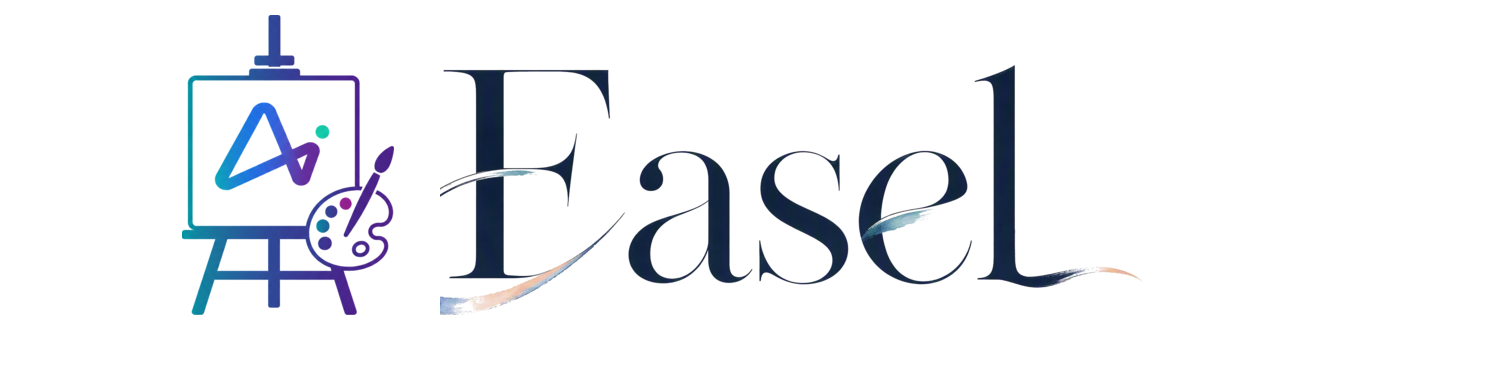
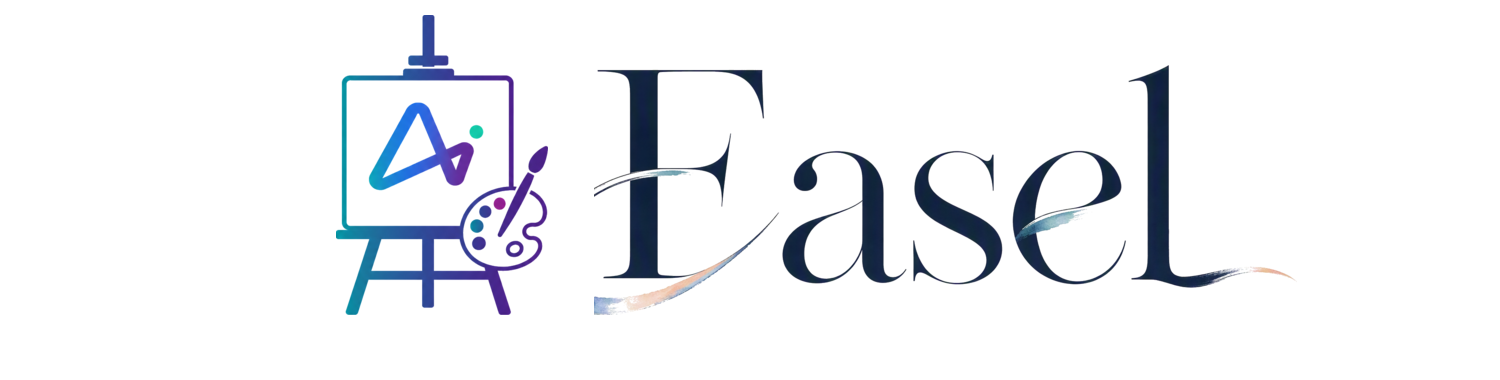
docs: refine README brand alignment and video copy

Changed region(s): [[0.1227, 0.0289, 0.8587, 0.8395]]

diff --git a/README.md b/README.md
@@ -1,5 +1,5 @@
 <p align="center">
-  <img src="assets/readme/brand.png" width="680" alt="Easel" style="margin-left: 70px;">
+  <img src="assets/readme/brand.png" width="680" alt="Easel">
 </p>
 
 <p align="center">
@@ -140,8 +140,8 @@ README 的品牌图、海报、案例图片和视频统一保存在 `assets/read
 
 ### 🎬 视频成片
 
-GitHub README 不支持内嵌 HTML 视频播放器，因此这里使用可点击的视频封面。点击封面查看最长 1 分钟的
-轻量预览，点击封面下方标题查看完整成片。
+为便于快速浏览，这里使用可点击的视频封面。点击封面查看最长 1 分钟的轻量预览，点击封面下方标题
+查看完整成片。
 
 **论文解读视频**
 
